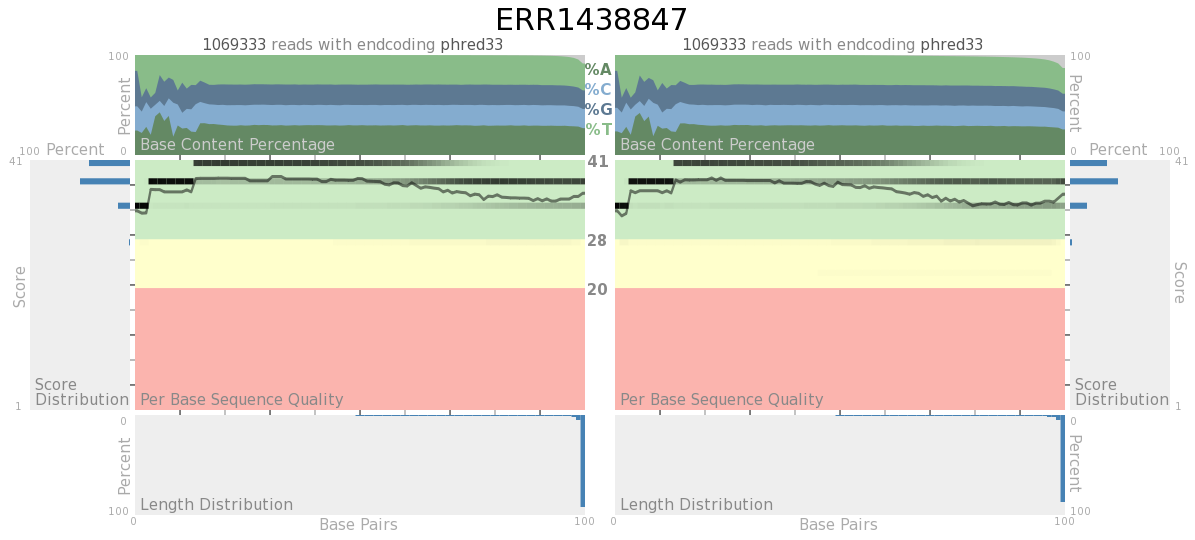
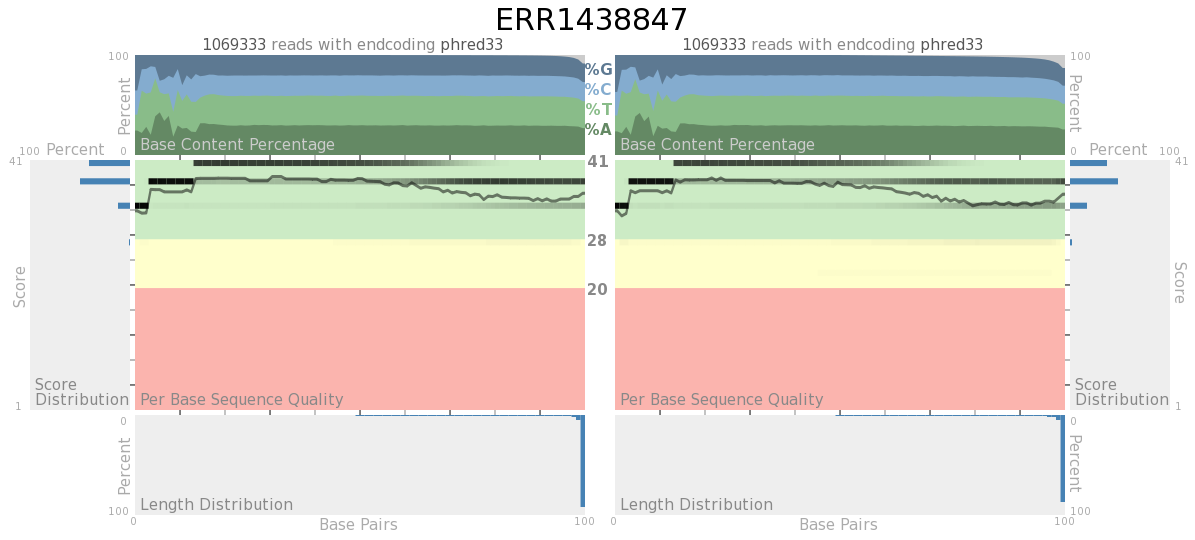
Fix base content order

Changed region(s): [[0.0929, 0.0889, 0.8979, 0.2667]]

diff --git a/quack.c b/quack.c
@@ -145,7 +145,7 @@ typedef struct {
 
 /* Convert ASCII to Integer for A T C and G */
 /*                A     C           G                                      T */
-int lookup[20] = {0, 0, 1, 0, 0, 0, 2, 0, 0, 0, 0, 0, 0, 0, 0, 0, 0, 0, 0, 3};
+int lookup[20] = {0, 0, 2, 0, 0, 0, 3, 0, 0, 0, 0, 0, 0, 0, 0, 0, 0, 0, 0, 1};
 
 KSEQ_INIT(gzFile, gzread)
 
@@ -483,7 +483,8 @@ void draw(sequence_data* data, int position, int adapters_used) {
 
   
   /* Draw each distribution, in decending order so they stack */
-  char *ratio_colors[4] = {"#648964", "#84accf", "#5d7992", "#89bc89"};
+  char *ratio_labels[4] = {"%A", "%T", "%C", "%G"};
+  char *ratio_colors[4] = {"#648964", "#89bc89", "#84accf", "#5d7992"};
   for(i = 3; i >= 0; i--){
     svg_simple_tag("polyline", 3,
                    svg_attr(points,      "0,0 %s %d,0", ratio_points[i], data->max_length),
@@ -514,9 +515,8 @@ void draw(sequence_data* data, int position, int adapters_used) {
      465 = width of vertical section (450) + width of margin (30) halved 
    */
   if(position==0){
-    char *ratio_labels[4] = {"%A", "%C", "%G", "%T"};
     for( i = 0; i < 4; i++){
-      svg_center_label(465, 20*(i+1), ratio_colors[i], "%s", ratio_labels[i]);
+      svg_center_label(465, 20*(4-i), ratio_colors[i], "%s", ratio_labels[i]);
     }
   }
 
